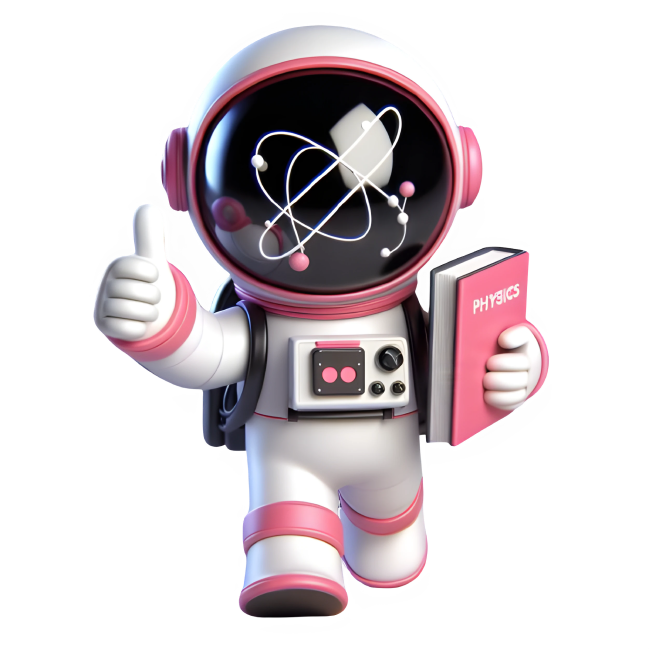
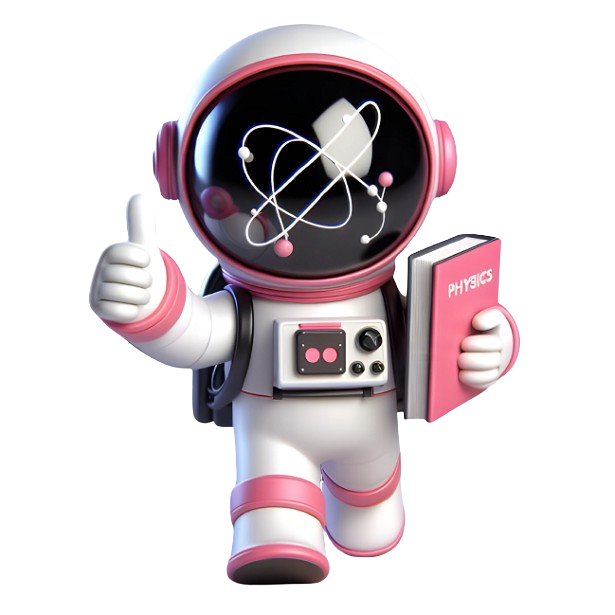
Add female astronaut in natureScript

diff --git a/Spacio/src/natureScript.cpp b/Spacio/src/natureScript.cpp
@@ -2,67 +2,75 @@
 
 void natureScript(std::string userNameStr, bool girlVoice, bool boyVoice)
 {
-         Font Poppins = LoadFontEx("../assets/fonts/Poppins-Regular.ttf", 1000, NULL, 0);
-         Font boldPoppins = LoadFontEx("../assets/fonts/Poppins-Bold.ttf", 1000, NULL, 0);
+    Font Poppins = LoadFontEx("../assets/fonts/Poppins-Regular.ttf", 1000, NULL, 0);
+    Font boldPoppins = LoadFontEx("../assets/fonts/Poppins-Bold.ttf", 1000, NULL, 0);
 
-         Texture2D background = LoadTexture("../assets/images/natureBackground.png");
+    Texture2D background = LoadTexture("../assets/images/natureBackground.png");
 
-         const char* script[8] = {
-             "It seems like you have chosen\nto learn about the Universe. So\nwhat exactly is the Universe\nyou may ask. We can\nsimply say that it is everything.", 
-             "The Universe includes all of\nspace, and all the matter and\nenergy that space contains.\nIt even includes time itself\nand, of course, it includes you.",
-             "13.8 billion years ago, a brief\ncosmic inflation period\nrapidly expanded the universe,\ninfluencing its observable\nproperties.",
-             "The subsequent Big Bang created\na hot particle soup, leading\nto nucleosynthesis and the\nformation of basic elements.",
-             "Recombination, 380,000 years\npost-Big Bang, made the universe\ntransparent, producing the\ncosmic microwave background\nradiation.",
-             "After recombination, a dark age\nensued, followed by the\nformation of the first stars in\ncooler regions.",
-             "Their light initiated\nreionization, breaking down\nhydrogen atoms and rendering\nthe universe transparent.",
-             "Currently, dark energy accelerates\nthe universe's expansion,\nchallenging earlier beliefs and\nprompting ongoing research for\nnew insights into its perpetual\ngrowth."
-         };
+    const char* script[8] = {
+        "It seems like you have chosen\nto learn about the Universe. So\nwhat exactly is the Universe\nyou may ask. We can\nsimply say that it is everything.",
+        "The Universe includes all of\nspace, and all the matter and\nenergy that space contains.\nIt even includes time itself\nand, of course, it includes you.",
+        "13.8 billion years ago, a brief\ncosmic inflation period\nrapidly expanded the universe,\ninfluencing its observable\nproperties.",
+        "The subsequent Big Bang created\na hot particle soup, leading\nto nucleosynthesis and the\nformation of basic elements.",
+        "Recombination, 380,000 years\npost-Big Bang, made the universe\ntransparent, producing the\ncosmic microwave background\nradiation.",
+        "After recombination, a dark age\nensued, followed by the\nformation of the first stars in\ncooler regions.",
+        "Their light initiated\nreionization, breaking down\nhydrogen atoms and rendering\nthe universe transparent.",
+        "Currently, dark energy accelerates\nthe universe's expansion,\nchallenging earlier beliefs and\nprompting ongoing research for\nnew insights into its perpetual\ngrowth."
+    };
 
-         const char* astronauts[8] = { "../assets/images/astronaut.png", "../assets/images/goodJobAstronaut.png", "../assets/images/astronaut.png", "../assets/images/goodJobAstronaut.png", "../assets/images/astronaut.png", "../assets/images/goodJobAstronaut.png", "../assets/images/astronaut.png", "../assets/images/goodJobAstronaut.png" };
+    const char* boyAstronauts[8] = { "../assets/images/astronaut.png", "../assets/images/goodJobAstronaut.png", "../assets/images/astronaut.png", "../assets/images/goodJobAstronaut.png", "../assets/images/astronaut.png", "../assets/images/goodJobAstronaut.png", "../assets/images/astronaut.png", "../assets/images/goodJobAstronaut.png" };
+    const char* girlAstronauts[8] = { "../assets/images/goodJobGirlAstronaut.png", "../assets/images/girlAstronautSure.png", "../assets/images/goodJobGirlAstronaut.png", "../assets/images/girlAstronautSure.png", "../assets/images/goodJobGirlAstronaut.png", "../assets/images/girlAstronautSure.png", "../assets/images/goodJobGirlAstronaut.png", "../assets/images/girlAstronautSure.png" };
 
-         Texture2D images[sizeof(astronauts) / sizeof(astronauts[0])];
+    Texture2D images[sizeof(boyAstronauts) / sizeof(boyAstronauts[0])];
+    Texture2D imagesGirl[sizeof(girlAstronauts) / sizeof(girlAstronauts[0])];
 
-         for (int i = 0; i < sizeof(astronauts) / sizeof(astronauts[0]); i++) {
-             images[i] = LoadTexture(astronauts[i]);
-         }
+    for (int i = 0; i < sizeof(boyAstronauts) / sizeof(boyAstronauts[0]); i++) {
+        images[i] = LoadTexture(boyAstronauts[i]);
+    }
 
-         int counter = 0;
-         int current = 0;
+    for (int i = 0; i < sizeof(girlAstronauts) / sizeof(girlAstronauts[0]); i++) {
+        imagesGirl[i] = LoadTexture(girlAstronauts[i]);
+    }
 
-         SetTextLineSpacing(45);
+    int counter = 0;
+    int current = 0;
 
-         while (!WindowShouldClose())
-         {
+    SetTextLineSpacing(45);
 
-         BeginDrawing();
-         
-         ClearBackground(RAYWHITE);
+    while (!WindowShouldClose())
+    {
 
-         DrawTexture(background, 0, 0, RAYWHITE);
-         DrawTexture(images[current],100, 250, WHITE);
+        BeginDrawing();
 
-         DrawTextEx(boldPoppins, script[counter], Vector2{ 665, 400 }, 40, 5, WHITE);
-         DrawTextEx(boldPoppins, "Press Enter to continue!", Vector2{900, 800}, 40, 5, DARKGRAY);
-         
-         if (IsKeyPressed(KEY_ENTER))
-         {
-             counter++;
-             current = (current + 1) % (sizeof(images) / sizeof(images[0]));
-         }
+        ClearBackground(RAYWHITE);
 
-         if (counter == 8)
-         {
-             readyForQuiz(userNameStr, girlVoice, boyVoice);
-             break;
+        DrawTexture(background, 0, 0, RAYWHITE);
 
-         }
+        if (boyVoice) DrawTexture(images[current], 100, 250, WHITE);
+        if (girlVoice) DrawTexture(imagesGirl[current], 60, 250, WHITE);
+
+        DrawTextEx(boldPoppins, script[counter], Vector2{ 665, 400 }, 40, 5, WHITE);
+        DrawTextEx(boldPoppins, "Press Enter to continue!", Vector2{ 900, 800 }, 40, 5, DARKGRAY);
+
+        if (IsKeyPressed(KEY_ENTER))
+        {
+            counter++;
+            current = (current + 1) % (sizeof(images) / sizeof(images[0]));
+        }
+
+        if (counter == 8)
+        {
+            readyForQuiz(userNameStr, girlVoice, boyVoice);
+            break;
+
+        }
 
 
-         EndDrawing();
+        EndDrawing();
     }
 
     for (int i = 0; i < sizeof(images) / sizeof(images[0]); i++) {
         UnloadTexture(images[i]);
     }
-    
+
 }

diff --git a/Spacio/src/higgsFieldGame.cpp b/Spacio/src/higgsFieldGame.cpp
@@ -4,8 +4,6 @@ void HiggsFieldGame(bool hasMass, std::string userNameStr, bool girlVoice, bool 
 	Texture2D background = LoadTexture("../assets/images/higgsfieldBg.png");
 	Texture2D particle = LoadTexture("../assets/images/particle.png");
 
-
-
 	Font Poppins = LoadFontEx("../assets/fonts/Poppins-Regular.ttf", 100, 0, 0);
 	Font boldPoppins = LoadFontEx("../assets/fonts/Poppins-Bold.ttf", 500, 0, 0);
 
